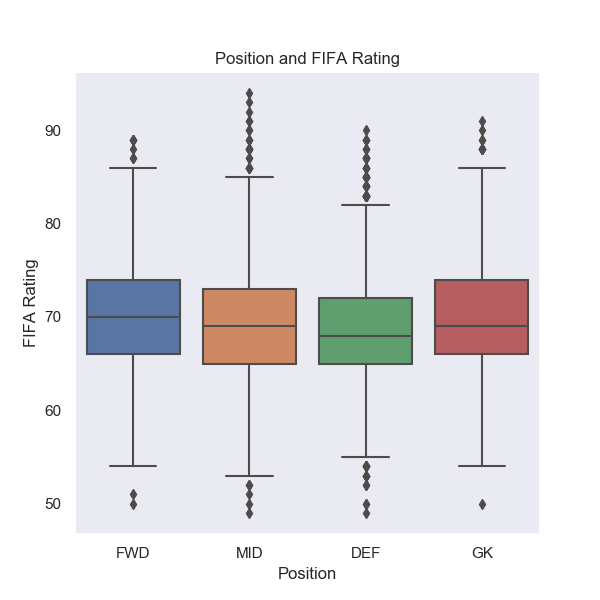
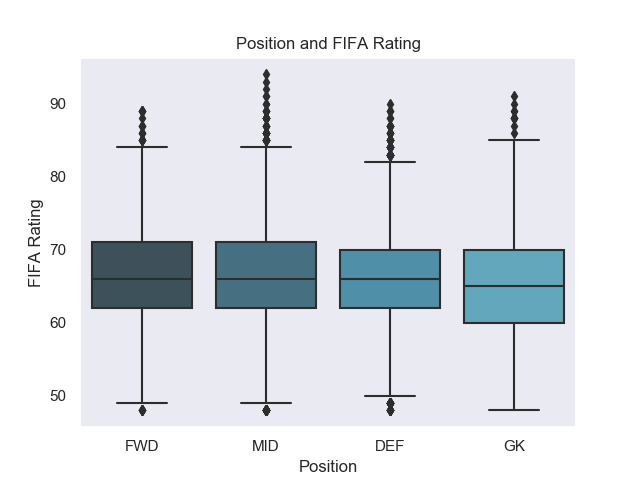
Position charts

diff --git a/logistic.py b/logistic.py
@@ -15,9 +15,9 @@ print(df.team_position.value_counts())
 print(df.shape)
 print(df.columns.values.tolist())
 
-df = df[['overall', 'player_positions', 'team_position', 'attacking_crossing', 'attacking_finishing',
-         'attacking_heading_accuracy',
-         'attacking_short_passing', 'attacking_volleys', 'skill_dribbling', 'skill_curve', 'skill_fk_accuracy',
+df = df[['overall', 'age', 'height_cm', 'weight_kg', 'player_positions', 'team_position', 'attacking_crossing',
+         'attacking_finishing', 'attacking_heading_accuracy', 'attacking_short_passing', 'attacking_volleys',
+         'skill_dribbling', 'skill_curve', 'skill_fk_accuracy',
          'skill_long_passing', 'skill_ball_control', 'movement_acceleration', 'movement_sprint_speed',
          'movement_agility', 'movement_reactions', 'movement_balance', 'power_shot_power', 'power_jumping',
          'power_stamina', 'power_strength', 'power_long_shots', 'mentality_aggression', 'mentality_interceptions',
@@ -39,14 +39,15 @@ df['team_position'].fillna(df['player_positions'], inplace=True)
 print(df.isnull().sum())
 print(df.team_position.value_counts())
 
+
 # Reduce number of positions
 def simple_position(df):
     if ((df['team_position'] == 'RB') | (df['team_position'] == 'LB') | (df['team_position'] == 'CB') |
             (df['team_position'] == 'LCB') | (df['team_position'] == 'RCB') | (df['team_position'] == 'RWB') |
             (df['team_position'] == 'LWB')):
         return 'DEF'
-    elif ((df['team_position'] == 'LDM') | (df['team_position'] == 'CDM') | (df['team_position'] == 'RDM')):
-        return 'DEF'
+    elif (df['team_position'] == 'LDM') | (df['team_position'] == 'CDM') | (df['team_position'] == 'RDM'):
+        return 'MID'
     elif ((df['team_position'] == 'LM') | (df['team_position'] == 'LCM') | (df['team_position'] == 'CM') |
           (df['team_position'] == 'RCM') | (df['team_position'] == 'RM')):
         return 'MID'
@@ -62,52 +63,91 @@ def simple_position(df):
 
 df['position'] = df.apply(simple_position, axis=1)
 
-# # Drop both original fields and remove NAs
+# # Drop both original fields
 df = df.drop(['player_positions', 'team_position'], axis=1)
 print(df.position.value_counts())
 print(df.shape)
 
-# print(df.isnull().sum())
-# df = df.dropna()
-# print(df.isnull().sum())
-# print(df.shape)
-# print(df.team_position.value_counts())
 
-# Distribution of rating overall
-# sns.set(style="dark", palette="deep", color_codes=True)
-# sns.distplot(df['overall'], kde=False, bins=20, color='b')
-# plt.title('Distribution of FIFA Rating')
-# plt.xlabel('Bins')
-# plt.ylabel('Frequency')
-# plt.savefig('plots/hist_rating.png')
-# plt.clf()
+# Box plot
+sns.set(style="dark", palette="GnBu_d", color_codes=True)
+position_order = ['FWD', 'MID', 'DEF', 'GK']
+sns.boxplot(x='position', y='overall', order=position_order, data=df)
+plt.title('Position and FIFA Rating')
+plt.xlabel('Position')
+plt.ylabel('FIFA Rating')
+plt.savefig('plots/box_position_rating.png')
+plt.clf()
 
-# # Distribution of rating by position
-# f, axes = plt.subplots(2, 2, figsize=(8, 8), sharex=True)
-# sns.distplot(df['overall'][df['position'] == 'FWD'], color="skyblue", ax=axes[0, 0])
-# sns.distplot(df['overall'][df['position'] == 'MID'], color="olive", ax=axes[0, 1])
-# sns.distplot(df['overall'][df['position'] == 'DEF'], color="gold", ax=axes[1, 0])
-# sns.distplot(df['overall'][df['position'] == 'GK'], color="teal", ax=axes[1, 1])
-# plt.savefig('plots/hist_rating_position.png')
-# plt.clf()
+# Distribution of skill rating by position
+f, axes = plt.subplots(2, 2, figsize=(8, 8), sharex=True)
+f.suptitle('Distribution of dribbling skill by position', fontsize=16)
+sns.set(style="dark", palette="GnBu_d", color_codes=True)
+sns.distplot(df['skill_dribbling'][df['position'] == 'FWD'], ax=axes[0, 0])
+axes[0][0].set(xlabel='FWD', ylabel='Frequency share')
+sns.distplot(df['skill_dribbling'][df['position'] == 'MID'], ax=axes[0, 1])
+axes[0][1].set(xlabel='MID')
+sns.distplot(df['skill_dribbling'][df['position'] == 'DEF'], ax=axes[1, 0])
+axes[1][0].set(xlabel='DEF', ylabel='Frequency share')
+sns.distplot(df['skill_dribbling'][df['position'] == 'GK'], ax=axes[1, 1])
+axes[1][1].set(xlabel='GK')
+plt.savefig('plots/hist_rating_position.png')
+plt.clf()
+
+player_features = ['attacking_crossing',
+                   'attacking_finishing', 'attacking_heading_accuracy', 'attacking_short_passing', 'attacking_volleys',
+                   'skill_dribbling', 'skill_curve', 'skill_fk_accuracy',
+                   'skill_long_passing', 'skill_ball_control', 'movement_acceleration', 'movement_sprint_speed',
+                   'movement_agility', 'movement_reactions', 'movement_balance', 'power_shot_power', 'power_jumping',
+                   'power_stamina', 'power_strength', 'power_long_shots', 'mentality_aggression',
+                   'mentality_interceptions',
+                   'mentality_positioning', 'mentality_vision', 'mentality_penalties', 'mentality_composure',
+                   'defending_marking', 'defending_standing_tackle', 'defending_sliding_tackle', 'goalkeeping_diving',
+                   'goalkeeping_handling', 'goalkeeping_kicking', 'goalkeeping_positioning', 'goalkeeping_reflexes']
+
+for i, val in df.groupby(df['position'])[player_features].mean().iterrows():
+    print('Position {}: {}, {}, {}'.format(i, *tuple(val.nlargest(4).index)))
+
+# from math import pi
 #
-# # Charting overall rating by position
-# f, ax = plt.subplots(figsize=(6, 6))
-# sns.stripplot(x='position', y='overall', data=df, jitter=0.2, palette="Set2", dodge=True)
-# plt.title('Position and FIFA Rating')
-# plt.xlabel('Position')
-# plt.ylabel('FIFA Rating')
-# plt.savefig('plots/scatter_position_rating.png')
-# plt.clf()
+# idx = 1
+# plt.figure(figsize=(15, 45))
+# for position_name, features in df.groupby(df['position'])[player_features].mean().iterrows():
+#     top_features = dict(features.nlargest(5))
 #
-# # Box plot
-# sns.set(style="dark", palette="deep", color_codes=True)
-# position_order = ['FWD', 'MID', 'DEF', 'GK']
-# sns.boxplot(x='position', y='overall', order=position_order, data=df)
-# plt.title('Position and FIFA Rating')
-# plt.xlabel('Position')
-# plt.ylabel('FIFA Rating')
-# plt.savefig('plots/box_position_rating.png')
+#     # number of variable
+#     categories = top_features.keys()
+#     N = len(categories)
+#
+#     # We are going to plot the first line of the data frame.
+#     # But we need to repeat the first value to close the circular graph:
+#     values = list(top_features.values())
+#     values += values[:1]
+#
+#     # What will be the angle of each axis in the plot? (we divide the plot / number of variable)
+#     angles = [n / float(N) * 2 * pi for n in range(N)]
+#     angles += angles[:1]
+#
+# # Initialise the spider plot
+# ax = plt.subplot(9, 3, idx, polar=True)
+#
+# # Draw one axe per variable + add labels labels yet
+# plt.xticks(angles[:-1], categories, color='grey', size=8)
+#
+# # Draw ylabels
+# ax.set_rlabel_position(0)
+# plt.yticks([25, 50, 75], ["25", "50", "75"], color="grey", size=7)
+# plt.ylim(0, 100)
+# plt.subplots_adjust(hspace=0.5)
+#
+# # Plot data
+# ax.plot(angles, values, linewidth=1, linestyle='solid')
+#
+# # Fill area
+# ax.fill(angles, values, 'b', alpha=0.1)
+# plt.title(position_name, size=11, y=1.1)
+# idx += 1
+# plt.savefig('plots/best_skills.png')
 # plt.clf()
 
 
@@ -117,9 +157,8 @@ y = df['position']
 
 from sklearn.model_selection import train_test_split
 
-
 # Splitting features and target datasets into: train and test
-X_train, X_test, y_train, y_test = train_test_split(X, y, test_size=0.3)
+X_train, X_test, y_train, y_test = train_test_split(X, y, test_size=0.2)
 
 # Printing original Dataset
 print(f"X.shape: {X.shape}, y.shape: {y.shape}")
@@ -156,3 +195,6 @@ print(confusion_matrix(y_test, predicted_values))
 
 print('Overall f1-score')
 print(f1_score(y_test, predicted_values, average="macro"))
+
+print('Coefficients')
+print(pd.DataFrame(lr.coef_, columns=X.columns).to_string())
